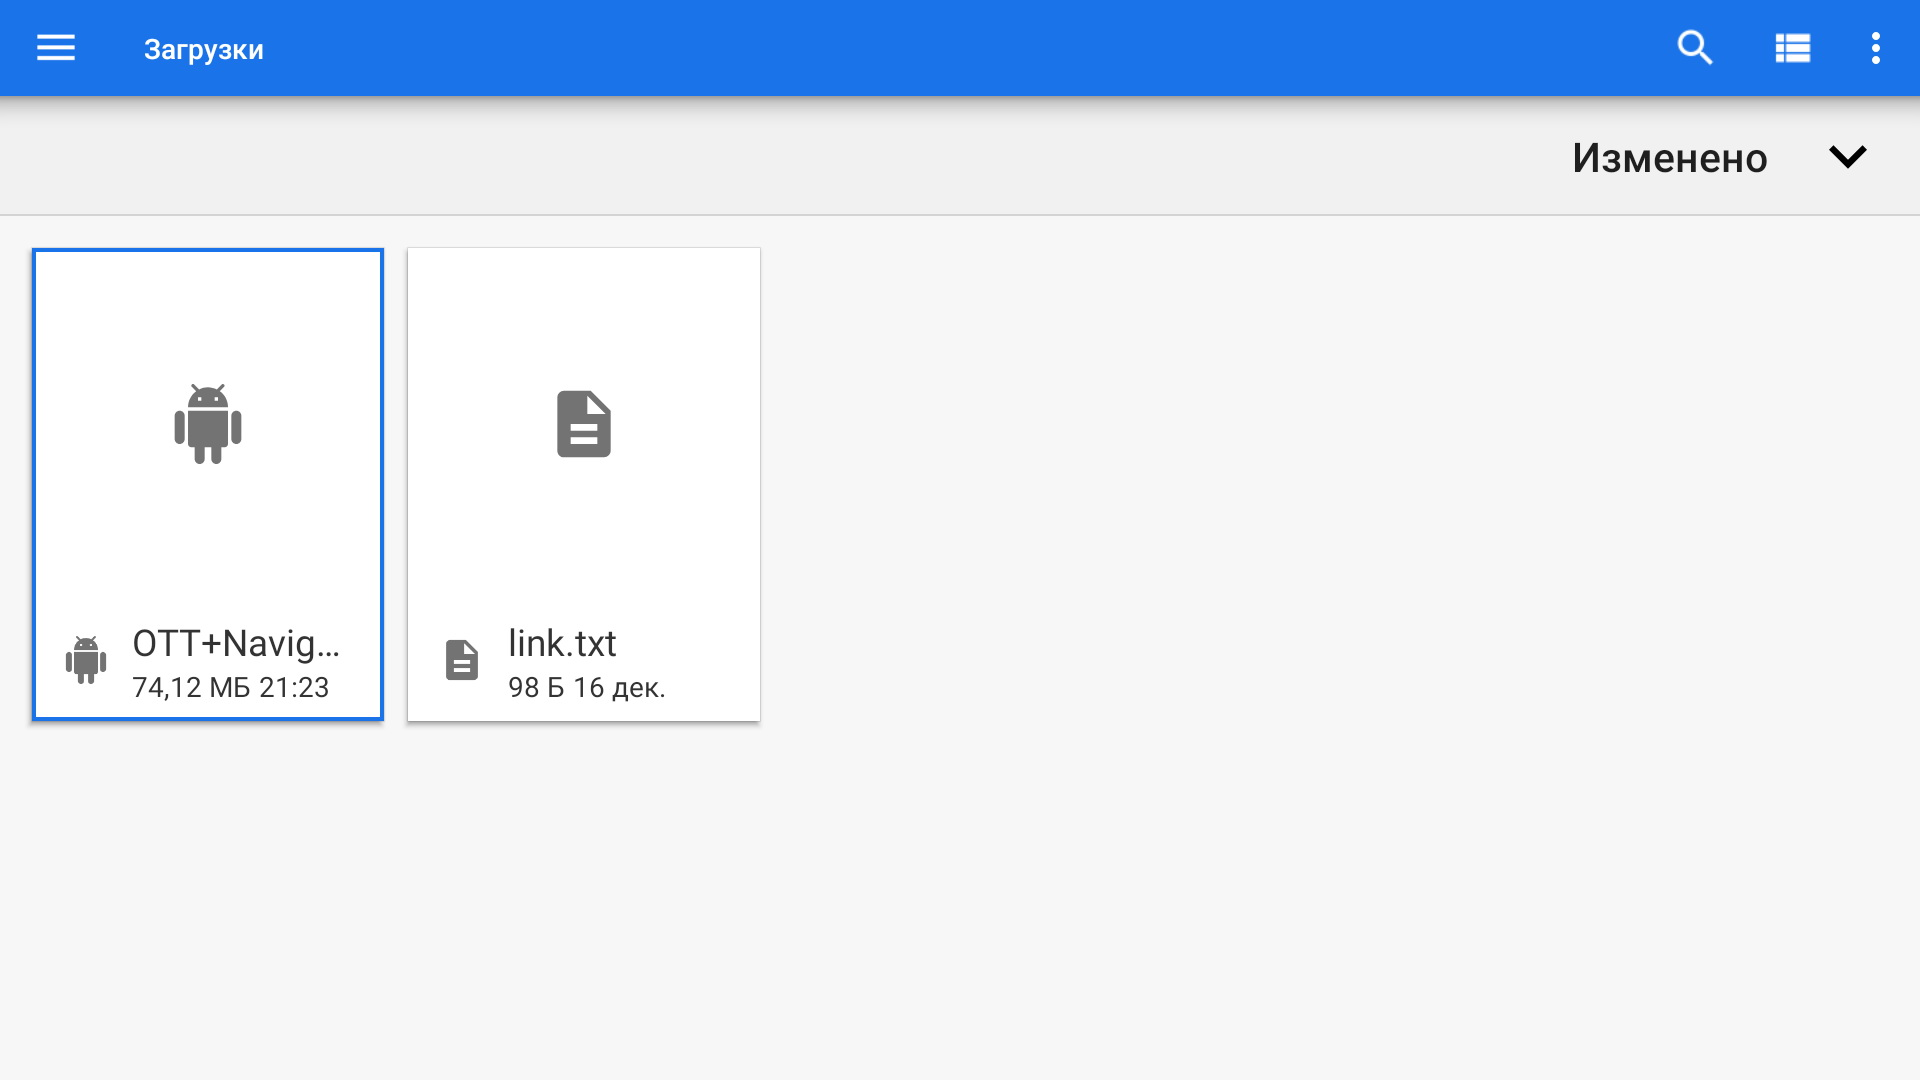
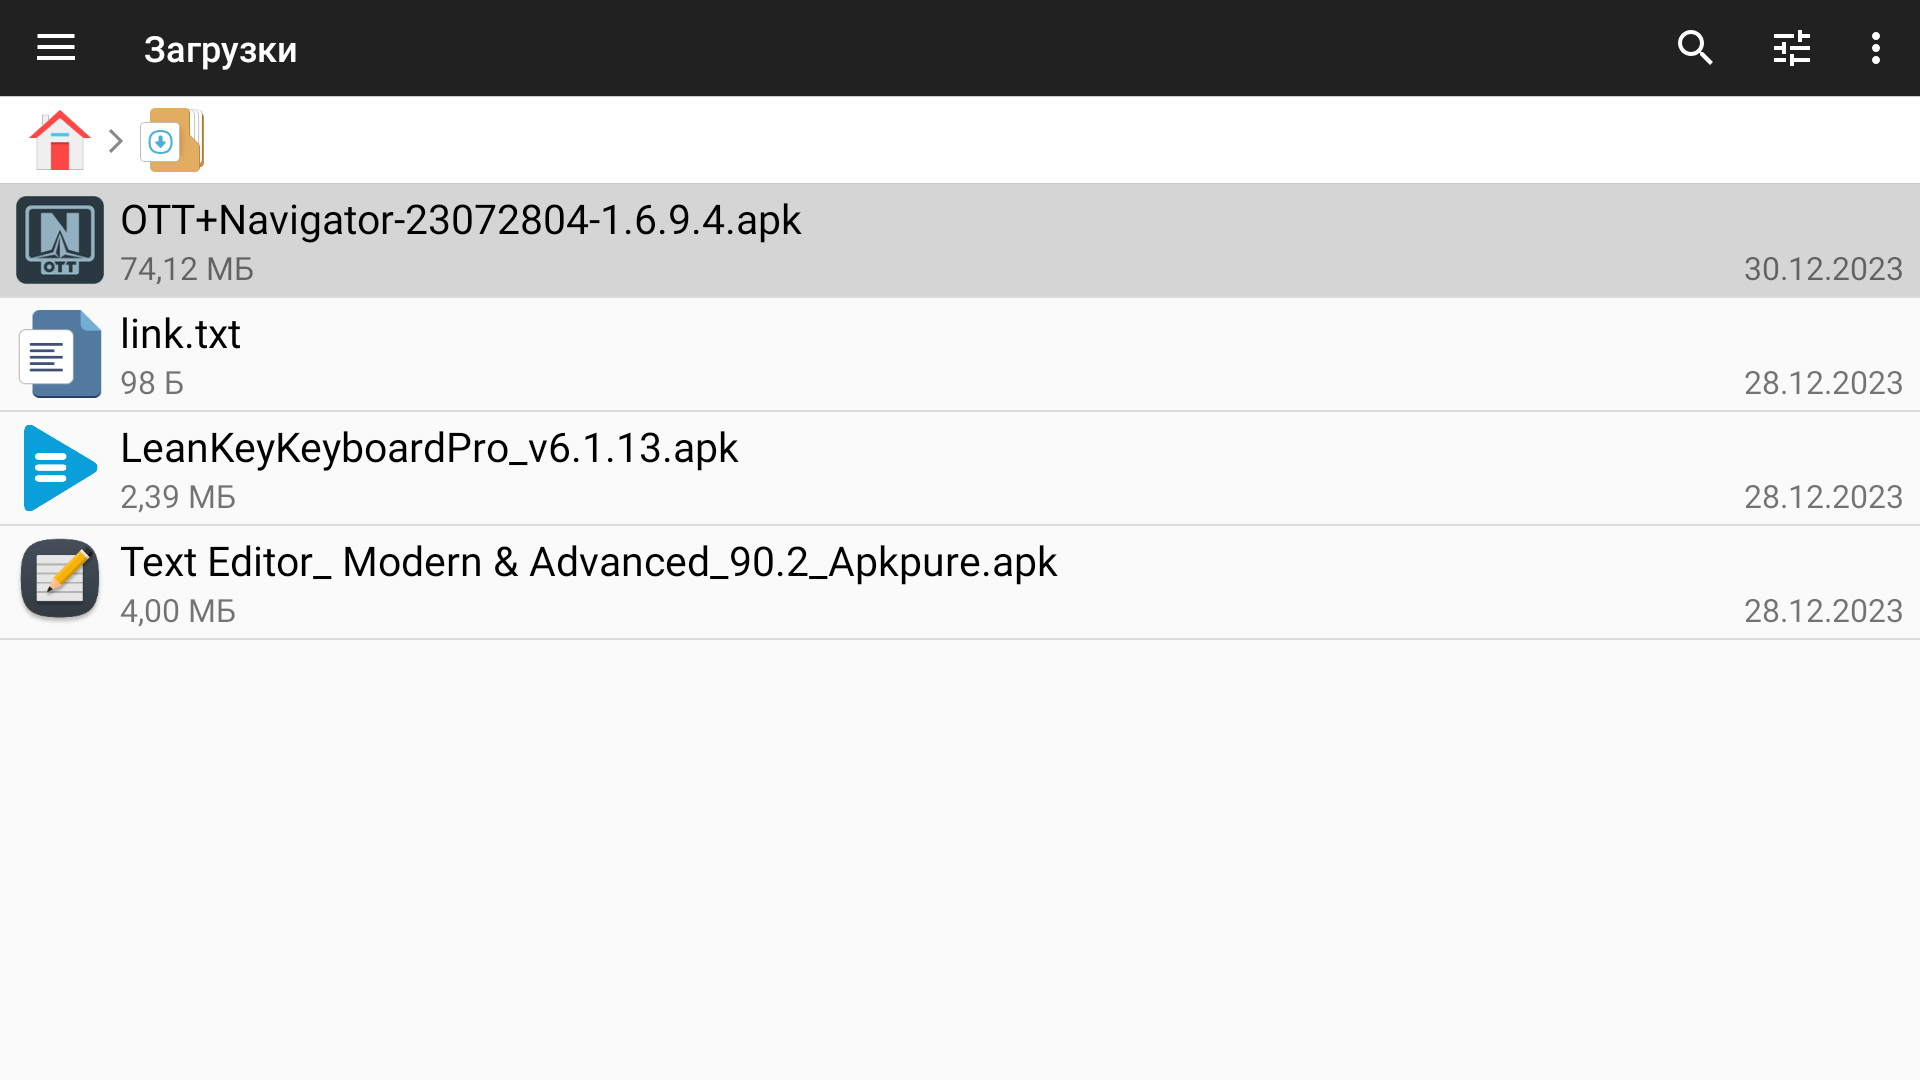
add screenshots for manuals

diff --git a/src/components/Manuals/Manuals.tsx b/src/components/Manuals/Manuals.tsx
@@ -15,7 +15,11 @@ import OttNavigatorInstall from "./OttNavigatorInstall";
 import OttPlayFossInstall from "./OttPlayFossInstall";
 import { appColors } from "../../services/appColors";
 import { playersAll } from "../../data/dataIPTV";
-import AndroidTvBoxAppsHelp from "./AndroidTvBoxAppsHelp";
+import AppsHelpDownload from "./AppsHelpDownload";
+import AppsHelpInstall from "./AppsHelpInstall";
+import OttPlayByAlexDownload from "./OttPlayByAlexDownload";
+import OttPlayByAlexInstall from "./OttPlayByAlexInstall";
+import OttplayerSetup from "./OttplayerSetup";
 
 function Manuals() {
   const navigate = useNavigate();
@@ -45,8 +49,8 @@ function Manuals() {
     stepManuals.push(<IlookPlaylist key={stepManuals.length} step={stepManuals.length + 1}/>);
   }
 
-  if (device === 'androidtvbox') {
-    stepManuals.push(<AndroidTvBoxAppsHelp key={stepManuals.length} step={stepManuals.length + 1}/>);
+  if (device === 'androidtvbox' && player !== 'ottplayer') {
+    stepManuals.push(<AppsHelpDownload key={stepManuals.length} step={stepManuals.length + 1}/>);
   }
 
   if (player === 'televizo') {
@@ -61,8 +65,20 @@ function Manuals() {
     stepManuals.push(<OttPlayFossDownload key={stepManuals.length} step={stepManuals.length + 1}/>);
   }
 
+  if (player === 'ottplaybyalex') {
+    stepManuals.push(<OttPlayByAlexDownload key={stepManuals.length} step={stepManuals.length + 1}/>);
+  }
+
+  if (player === 'ottplayer') {
+    stepManuals.push(<OttplayerSetup key={stepManuals.length} step={stepManuals.length + 1}/>);
+  }
+
   if (device === 'androidtvbox' && (player !== 'cbilling')) {
     stepManuals.push(<AndroidTvBoxTransfer key={stepManuals.length} step={stepManuals.length + 1}/>);
+  }
+
+  if (device === 'androidtvbox') {
+    stepManuals.push(<AppsHelpInstall key={stepManuals.length} step={stepManuals.length + 1}/>);
   }
 
   if (player === 'televizo') {
@@ -77,6 +93,9 @@ function Manuals() {
     stepManuals.push(<OttPlayFossInstall key={stepManuals.length} step={stepManuals.length + 1}/>);
   }
 
+  if (player === 'ottplaybyalex') {
+    stepManuals.push(<OttPlayByAlexInstall key={stepManuals.length} step={stepManuals.length + 1}/>);
+  }
 
   return (
     <>

diff --git a/src/components/Manuals/AppsHelpDownload.tsx b/src/components/Manuals/AppsHelpDownload.tsx
@@ -7,7 +7,7 @@ type Props = {
   step: number;
 }
 
-function AndroidTvBoxAppsHelp({step}: Props) {
+function AppsHelpDownload({step}: Props) {
   const {t} = useTranslation();
   const linkLeanKey = 'https://www.dropbox.com/scl/fi/rcmwwfts2xr93mdxgvy86/LeanKeyKeyboardPro_v6.1.13.apk?rlkey=91bmt9vphhk04qg660nn4nbua&dl=1';
   const linkTextEditor = 'https://www.dropbox.com/scl/fi/xlvic7nufk5dw5sbftlu1/Text-Editor_-Modern-Advanced_90.2_Apkpure.apk?rlkey=p8hs7wv2023m9vpa9kujqwoex&dl=1';
@@ -18,15 +18,16 @@ function AndroidTvBoxAppsHelp({step}: Props) {
       sx={sxCardMain}
     >
       <Box component='h4' sx={sxHeadMain}>
-        {t('step')}{step}{t('step-AndroidTvBoxAppsHelp')}
+        {t('step')}{step}{t('step-AppsHelpDownload')}
       </Box>
+      <CardContent sx={sxManualText1}>{t('android-help1-0')}</CardContent>
       <CardContent sx={sxManualText1}>{t('android-help1-1')}</CardContent>
       <CardContent sx={sxManualText1}>{t('android-help1-2')}</CardContent>
       <Box component='a' href={linkLeanKey} target="_blank" sx={sxLinksRegistration}>
         LeanKeyKeyboardPro_v6.1.13.apk
       </Box>
       <CardContent sx={sxManualText1}>{t('android-help1-3')}</CardContent>
-      <Box component='a' href={linkLeanKey} target="_blank" sx={sxLinksRegistration}>
+      <Box component='a' href={linkTextEditor} target="_blank" sx={sxLinksRegistration}>
         Text Editor_Modern&Advanced_90.2_Apkpure.apk
       </Box>
       <CardContent sx={sxManualText1}>{t('android-help1-4')}</CardContent>
@@ -34,4 +35,4 @@ function AndroidTvBoxAppsHelp({step}: Props) {
   );
 }
 
-export default AndroidTvBoxAppsHelp;
+export default AppsHelpDownload;

diff --git a/src/components/Manuals/OttplayerSetup.tsx b/src/components/Manuals/OttplayerSetup.tsx
@@ -5,17 +5,18 @@ import { Box, Card, CardContent, CardMedia, Typography } from "@mui/material";
 import { appColors } from "../../services/appColors";
 import ImageManual from "./ImageManual";
 import { operators } from "../../data/dataIPTV";
-import { sxManualText1, sxCardMain, sxHeadMain } from "./sxsManuals";
+import { sxManualText1, sxCardMain, sxHeadMain, sxLinksRegistration } from "./sxsManuals";
 
 type Props = {
   step: number;
 }
 
-function IlookPlaylist({step}: Props) {
+function OttplayerSetup({step}: Props) {
   const {t} = useTranslation();
   const params = useParams();
   const operator = params.operator;
   const player = params.player;
+  const linkOttplayer = 'https://ottplayer.tv/';
 
   return (
     <Card
@@ -23,19 +24,15 @@ function IlookPlaylist({step}: Props) {
       sx={sxCardMain}
     >
       <Box component='h4' sx={sxHeadMain}>
-        {t('step')}{step}{t('step-IlookPlaylist')}
+        {t('step')}{step}{t('step-OttplayerSetup')}
       </Box>
-      <CardContent sx={sxManualText1}>{t('ilooktv_manual3-1')}</CardContent>
+      <CardContent sx={sxManualText1}>{t('ottplayer_manual1-1')}</CardContent>
+      <Box component='a' href={linkOttplayer} target="_blank" sx={sxLinksRegistration}>
+        OttPlayer website
+      </Box>
       <ImageManual image={`${operator}_manual4.jpg`}/>
-      <CardContent sx={sxManualText1}>{t('ilooktv_manual3-2')}</CardContent>
-      {
-        (player !== 'ottplayer') ?
-          <CardContent sx={sxManualText1}>{t('ilooktv_manual3-3')}</CardContent>
-          :
-          null
-      }
     </Card>
   );
 }
 
-export default IlookPlaylist;
+export default OttplayerSetup;

diff --git a/src/components/Manuals/AppsHelpInstall.tsx b/src/components/Manuals/AppsHelpInstall.tsx
@@ -1,0 +1,41 @@
+import { useParams } from "react-router-dom";
+import { useTranslation } from "react-i18next";
+import { Box, Card, CardContent } from "@mui/material";
+import ImageManual from "./ImageManual";
+import { sxManualText1, sxCardMain, sxHeadMain } from "./sxsManuals";
+import * as React from "react";
+
+type Props = {
+  step: number;
+}
+
+function AppsHelpInstall({step}: Props) {
+  const {t} = useTranslation();
+  const params = useParams();
+  const player = params.player;
+
+  return (
+    <Card
+      component='div'
+      sx={sxCardMain}
+    >
+      <Box component='h4' sx={sxHeadMain}>
+        {t('step')}{step}{t('step-AppsHelpInstall')}
+      </Box>
+      <CardContent sx={sxManualText1}>{t('android-help1-0')}</CardContent>
+      <CardContent sx={sxManualText1}>{t('android-help2-1')}</CardContent>
+      <ImageManual image={`androidtvbox_manual9_text_editor_${player}.jpg`}/>
+      <CardContent sx={sxManualText1}>{t('android-help2-2')}</CardContent>
+      <ImageManual image={`androidtvbox_manual9_keyboard_${player}.jpg`}/>
+      <CardContent sx={sxManualText1}>{t('android-help2-3')}</CardContent>
+      <ImageManual image={'androidtvbox_manual11_keyboard.jpg'}/>
+      <CardContent sx={sxManualText1}>{t('android-help2-4')}</CardContent>
+      <ImageManual image={'androidtvbox_manual12_keyboard.jpg'}/>
+      <CardContent sx={sxManualText1}>{t('android-help2-5')}</CardContent>
+      <ImageManual image={'androidtvbox_manual13_keyboard.jpg'}/>
+      <CardContent sx={sxManualText1}>{t('android-help2-6')}</CardContent>
+    </Card>
+  );
+}
+
+export default AppsHelpInstall;

diff --git a/src/components/Manuals/OttPlayByAlexInstall.tsx b/src/components/Manuals/OttPlayByAlexInstall.tsx
@@ -8,7 +8,7 @@ type Props = {
   step: number;
 }
 
-function OttPlayFossInstall({step}: Props) {
+function OttPlayByAlexInstall({step}: Props) {
   const {t} = useTranslation();
 
   return (
@@ -17,15 +17,15 @@ function OttPlayFossInstall({step}: Props) {
       sx={sxCardMain}
     >
       <Box component='h4' sx={sxHeadMain}>
-        {t('step')}{step}{t('step-ottplayfossInstall')}
+        {t('step')}{step}{t('step-ottplaybyalexInstall')}
       </Box>
       <CardContent sx={sxManualText1}>{t('televizo_manual2-1')}</CardContent>
-      <ImageManual image={`ottplayerfoss_manual1.jpg`}/>
+      <ImageManual image={'ottplaybyalex_manual1.jpg'}/>
       <CardContent sx={sxManualText1}>{t('televizo_manual2-2')}</CardContent>
       <ImageManual image={`televizo_manual2.jpg`}/>
-      <CardContent sx={sxManualText1}>{t('ottplayfoss_manual2-3')}</CardContent>
-      <ImageManual image={`ottplayerfoss_manual3.jpg`}/>
-      <CardContent sx={sxManualText1}>{t('ottplayfosso_manual2-4')}</CardContent>
+      <CardContent sx={sxManualText1}>{t('ottplaybyalex_manual2-3')}</CardContent>
+      <ImageManual image={'ottplaybyalex_manual3.jpg'}/>
+      <CardContent sx={sxManualText1}>{t('ottplaybyalex_manual2-4')}</CardContent>
       <ImageManual image={'ottplayfoss_manual4.jpg'}/>
       <CardContent sx={sxManualText1}>{t('ottplayfosso_manual2-5')}</CardContent>
       <ImageManual image={'ottplayfoss_manual5.jpg'}/>
@@ -50,4 +50,4 @@ function OttPlayFossInstall({step}: Props) {
   );
 }
 
-export default OttPlayFossInstall;
+export default OttPlayByAlexInstall;

diff --git a/src/components/Manuals/OttPlayByAlexDownload.tsx b/src/components/Manuals/OttPlayByAlexDownload.tsx
@@ -1,0 +1,46 @@
+import * as React from "react";
+import { useTranslation } from "react-i18next";
+import { Box, Card, CardContent } from "@mui/material";
+import { sxManualText1, sxCardMain, sxHeadMain, sxLinksRegistration } from "./sxsManuals";
+
+type Props = {
+  step: number;
+}
+
+function OttPlayByAlexDownload({step}: Props) {
+  const {t} = useTranslation();
+  const links = {
+    linkOfficial: 'https://forum.ott-play.com/index.php?topic=2.0',
+    link4PDA: 'https://4pda.to/forum/index.php?showtopic=991852',
+    linkFast: 'http://ott-play.com/android/app-debug.apk'
+  };
+
+  return (
+    <Card
+      component='div'
+      sx={sxCardMain}
+    >
+      <Box component='h4' sx={sxHeadMain}>
+        {t('step')}{step}{t('step-OttPlayByAlexDownload')}
+      </Box>
+      <CardContent sx={sxManualText1}>{t('ottplaybyalex_manual1-1')}</CardContent>
+      <CardContent sx={sxManualText1}>{t('ottplaybyalex_manual1-2')}</CardContent>
+      {
+        Object.keys(links).map((nameLink, i) =>
+          <Box
+            key={i}
+            component='a'
+            href={links[nameLink as keyof (typeof links)]}
+            target="_blank"
+            sx={sxLinksRegistration}
+          >
+            {t(nameLink)}
+          </Box>
+        )
+      }
+      <CardContent sx={sxManualText1}>{t('sendFiles_manual1-2')}</CardContent>
+    </Card>
+  );
+}
+
+export default OttPlayByAlexDownload;

diff --git a/src/components/Manuals/TelevizoInstall.tsx b/src/components/Manuals/TelevizoInstall.tsx
@@ -21,8 +21,9 @@ function TelevizoInstall({step}: Props) {
       </Box>
       <CardContent sx={sxManualText1}>{t('televizo_manual2-1')}</CardContent>
       <ImageManual image={`televizo_manual1.jpg`}/>
+      <CardContent sx={sxManualText1}>{t('televizo_manual2-12')}</CardContent>
+      <ImageManual image={'androidtvbox_manual10_text_editor.jpg'}/>
       <CardContent sx={sxManualText1}>{t('televizo_manual2-2')}</CardContent>
-      <ImageManual image={`televizo_manual2.jpg`}/>
       <CardContent sx={sxManualText1}>{t('televizo_manual2-3')}</CardContent>
       <ImageManual image={`televizo_manual3.jpg`}/>
       <CardContent sx={sxManualText1}>{t('televizo_manual2-4')}</CardContent>

diff --git a/src/components/Manuals/AndroidTvBoxTransfer.tsx b/src/components/Manuals/AndroidTvBoxTransfer.tsx
@@ -1,4 +1,3 @@
-import * as React from "react";
 import { useParams } from "react-router-dom";
 import { useTranslation } from "react-i18next";
 import { Box, Card, CardContent } from "@mui/material";
@@ -12,7 +11,6 @@ type Props = {
 function AndroidTvBoxTransfer({step}: Props) {
   const {t} = useTranslation();
   const params = useParams();
-  const operator = params.operator;
   const player = params.player;
 
   return (

diff --git a/src/components/Manuals/ImageManual.tsx b/src/components/Manuals/ImageManual.tsx
@@ -23,7 +23,7 @@ function ImageManual({image}: any) {
     <CardMedia
       component="img"
       image={`/img/manuals/${image}`}
-      alt={image}
+      alt={image.split('_')[1]}
       onClick={handlerZoom}
       sx={{
         margin: "0.25em auto 0.5em",

diff --git a/src/components/CardsPlayers.tsx b/src/components/CardsPlayers.tsx
@@ -22,7 +22,6 @@ function CardsPlayers() {
     }
   }, []);
 
-  console.log(device);
   return (
     <>
       <Box
